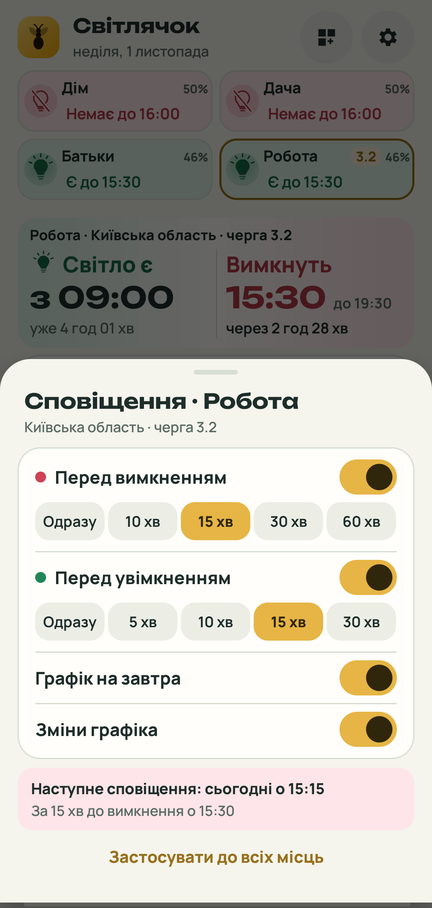
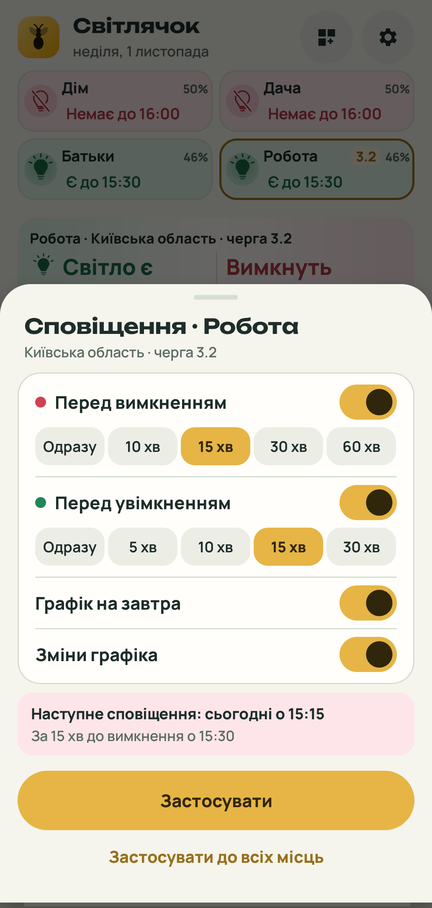
Describe 1.9.0-rc.2 changes: the clock alone on the card, the framed run, version link, Apply and new places with every notification; refresh screenshots

Changed region(s): [[0.0, 0.2467, 1.0, 0.9251], [0.4514, 0.6784, 0.5417, 0.7093]]

diff --git a/README.md b/README.md
@@ -63,14 +63,14 @@ Android-застосунок із графіком погодинних відк
 ### 📅 Графік вашої черги
 
 - Що зараз за графіком, відколи й скільки триває: «Світло є з 09:00, уже 4 год».
-- Наступна подія, її час і скільки до неї: «Вимкнуть 15:30 до 19:30, через 2 год 29 хв».
-- Сьогодні й завтра: 24 годинні клітинки двома рядами й підсумок очікуваного світла. Половина клітинки — 30 хвилин. Минулі години темніші, поточна виділена жовтою рамкою.
+- Наступна подія, її час і скільки до неї: «Вимкнуть 15:30, через 2 год 29 хв».
+- Сьогодні й завтра: 24 годинні клітинки двома рядами й підсумок очікуваного світла. Половина клітинки — 30 хвилин. Минулі години трохи приглушені, поточна виділена жовтою рамкою.
 - Місто Київ і 16 областей — [список](#області).
 
 ### 🔔 Сповіщення
 
-- Одразу після встановлення увімкнено два: за 15 хвилин до вимкнення і за 15 хвилин до
-  увімкнення світла.
+- Для кожного нового місця одразу ввімкнено всі: за 15 хвилин до вимкнення і за 15 хвилин до
+  увімкнення світла, графік на завтра й зміни графіка. Налаштування вже доданих місць не змінюються.
 - Для кожного місця — свої: кнопка «Сповіщення» під графіком відкриває налаштування вибраного місця і показує, коли прийде наступне. Їх можна застосувати до всіх місць.
 - Що станеться, а нижче — коли: «🔴 Вимкнуть світло» / «о 18:30». Коли місць
   кілька, другий рядок починається з назви місця: «Дім · о 18:30».
@@ -83,7 +83,6 @@ Android-застосунок із графіком погодинних відк
 - До 4 місць з різними областями чи чергами: дім, дача, батьки, робота. Одну чергу тієї самої області можна додати лише раз.
 - Кожне місце — компактна плитка зі станом і відсотком очікуваного світла сьогодні; натисніть, щоб побачити графік.
 - Під час додавання місця після вибору черги одразу видно її графік на сьогодні й завтра.
-- Нове місце отримує ті самі сповіщення, що й вибране; їх можна змінити дзвіночком.
 
 ### 📤 Поділитися
 
@@ -122,8 +121,8 @@ Android-застосунок із графіком погодинних відк
 - Про нову версію повідомляє картка на головному екрані: «Оновити», «Що нового» і
   «Пропустити цю версію» — тоді картка з'явиться лише для наступної. Окремих сповіщень про
   оновлення немає.
-- Внизу головного екрана видно версію застосунку. Якщо є новіша, навіть пропущена, рядок «є нова …,
-  оновити ›» повертає картку оновлення.
+- Внизу головного екрана видно версію застосунку; натискання відкриває список змін на GitHub. Якщо є
+  новіша, навіть пропущена, рядок «є нова …, оновити ›» повертає картку оновлення.
 - «Оновити» завантажує нову версію в застосунок і відразу відкриває встановлення Android —
   без браузера й пошуку файлу.
 
@@ -140,14 +139,14 @@ Android-застосунок із графіком погодинних відк
 - **Кольори**: зелений — світло є, червоний — світла немає, бурштиновий — можливе вимкнення,
   сірий — графіка ще немає. Лампочка дублює стан формою: з променями, перекреслена, наполовину
   залита, контур — тож його видно й без розрізнення кольорів.
-- **Картка стану** має дві половини, як великий віджет: зліва що зараз, відколи й скільки триває; справа наступна подія, її час і скільки до неї лишилось. Кінець наступного інтервалу видно завжди: біля часу або, на вузькому екрані, під відліком. Перед зміною права половина заливається кольором події.
+- **Картка стану** має дві половини, як великий віджет: зліва що зараз, відколи й скільки триває; справа наступна подія, її час і скільки до неї лишилось. Коли закінчиться наступний інтервал, видно на годинних клітинках нижче. Перед зміною права половина заливається кольором події.
 - **Початок стану** шукається в збережених графіках попередніх днів. За відсутності попередньої історії відлік починається від першого відомого часу, наприклад «з 00:00».
 - **Вибране місце** позначене контуром і номером черги на плитці. У картці стану вгорі його назва, область і черга: «Дім · Київська область · черга 3.1».
 - **Скора зміна** видна на плитці будь-якого місця: час стає на заливку кольору події за стільки хвилин, скільки вибрано у сповіщеннях місця, інакше за 15 хвилин.
 - Картка стану й плитки місць підлаштовуються під доступну ширину. Збільшений системний шрифт сам по собі не перемикає їх в один стовпець: другорядні підписи підлаштовуються, довгі назви переносяться повністю. Вертикальний вигляд потрібен лише коли для двох колонок справді замало місця.
 - **Сьогодні й завтра**: дві компактні секції, у кожній скільки годин світла очікується за графіком: «16 год світла · 67 %». Поки графіка на завтра немає, про це написано в одному рядку.
 - **Годинні клітинки**: два ряди по 12, від 00 до 23. Ліва половина — перші 30 хвилин години, права — другі; кольори зберігають усі короткі вимкнення. Жовтий контур позначає поточну годину. Можливе вимкнення має штрихування, невідомі години — сірі.
-- **Підказка графіка**: дотик до половини клітинки показує початок, кінець і тривалість її відрізка. Той самий відрізок, дотик поруч або кілька секунд прибирають її.
+- **Підказка графіка**: дотик до половини клітинки показує початок, кінець і тривалість її відрізка. Відрізок обведено рамкою, у кожному з рядів, які він займає, а решту клітинок приглушено. Той самий відрізок, дотик поруч або кілька секунд прибирають підказку.
 - **Світла немає, хоча за графіком є?** Рядок унизу пояснює можливі причини: екстрене вимкнення, аварію, ремонт, затримку даних або проблему вводу чи автомата. Кнопка веде до джерела для області вибраного місця; для міста Києва — до «Без світла».
 
 ## Докладніше
@@ -162,12 +161,13 @@ Android-застосунок із графіком погодинних відк
   Коли місць два й більше, другий рядок починається з назви місця. Залишок часу відлічує Android;
   повний текст із довгою назвою доступний після розгортання.
 - Усе це налаштовується окремо для кожного місця — кнопкою «Сповіщення» під графіком або дзвіночком
-  у рядку місця в налаштуваннях. Там же видно час наступного сповіщення і є «Застосувати до всіх місць».
+  у рядку місця в налаштуваннях. Перемикачі зберігаються одразу, кнопка «Застосувати» закриває вікно.
+  Там же видно час наступного сповіщення і є «Застосувати до всіх місць».
 - Нагадування й повідомлення про графік показуються окремо: оновлення графіка не прибирає активний
   відлік. Повідомлення кількох місць зібрані в групу. Нагадування заздалегідь зникає в момент зміни;
   перенесення або скасування події прибирає старе нагадування, уточнення інтервалу оновлює його без
   повторного звуку. Нагадування у момент зміни лишається до кінця відомого вимкнення або на годину після увімкнення.
-- Додатково, якщо потрібно, вмикаються:
+- Окремо вмикаються й вимикаються:
   - **Графік на завтра** — щойно обленерго його опублікує, з підсумком годин світла, і після кожного уточнення до опівночі;
   - **Зміни графіка** — якщо обленерго змінило години на сьогодні;
   - **Тиша вночі** — з 23:00 до 07:00 сповіщення приходять без звуку (одна для всіх місць).

diff --git a/CHANGELOG.md b/CHANGELOG.md
@@ -5,20 +5,22 @@
 ### ✨ Додано
 
 - **У формі місця видно графік вибраної черги на сьогодні й завтра.** Після вибору черги одразу показано ту саму сітку, що й на головному екрані.
-- **Внизу головного екрана видно версію застосунку.** Якщо вийшла новіша, навіть уже пропущена, натискання на рядок «є нова …, оновити ›» повертає картку оновлення.
+- **Внизу головного екрана видно версію застосунку.** Натискання відкриває список змін на GitHub. Якщо вийшла новіша версія, навіть уже пропущена, рядок «є нова …, оновити ›» повертає картку оновлення.
 
 ### 🔧 Змінено
 
 - **Сповіщення «Графік на завтра» приходить і про уточнення завтрашнього графіка.** Окремий перемикач «Зміни графіка» тепер стосується лише змін на сьогодні.
 - **Картинка для поширення вдвічі менша.** Черга й область в одному рядку, години вимкнень в одному ряду, без легенди. До повідомлення більше не додається окремий текст: адреса застосунку є на картинці.
 - **Рядок «Графік оновлено · перевірено» розташовано одразу під графіком.** У шапці лишилася тільки дата.
-- **Нове місце отримує ті самі сповіщення, що й вибране.** Їх можна змінити дзвіночком.
+- **У нового місця одразу ввімкнені всі сповіщення.** Налаштування вже доданих місць не змінюються. У вікні сповіщень з'явилася кнопка «Застосувати»: перемикачі, як і раніше, зберігаються одразу, а кнопка закриває вікно.
+- **На головній картці показано лише час наступної події.** Коли закінчиться наступний інтервал, видно на годинних клітинках нижче. Відстані між рядками картки однакові.
+- **Відрізок, вибраний дотиком, обведено однією рамкою.** Поки видно підказку, решту клітинок приглушено, тому точний початок і кінець видно, навіть коли відрізок займає обидва ряди. Минулі години приглушено менше, ніж раніше.
 
 ### 🐛 Виправлено
 
-- **Чернетка графіка на завтра більше не показується як графік.** Для Київської області обленерго спершу публікує «завтра» лише з нічними годинами, а решту доби позначає як «світло є». Застосунок показував 24 години світла й надсилав про це сповіщення. Тепер такий день вважається ще не опублікованим, доки не з'явиться повний графік. Якщо джерело три години нічого не змінює, показується те, що опубліковано.
-- **Кінець наступного вікна видно на головній картці завжди.** Раніше «до 19:00» зникало, коли не вміщувалося біля великого годинника.
+- **Чернетка графіка на завтра для Київської області більше не показується як графік.** Обленерго спершу публікує «завтра» лише з нічними годинами, а решту доби позначає як «світло є». Застосунок показував 24 години світла й надсилав про це сповіщення. Тепер такий день вважається ще не опублікованим, доки не з'явиться повний графік. Якщо джерело три години нічого не змінює, показується те, що опубліковано.
 - **Сповіщення про зміну графіка не губляться під час редагування місць.** Якщо графік області оновився саме тоді, інші місця цієї області отримують сповіщення.
+- **Час оновлення графіка не буває пізнішим, ніж застосунок отримав файл.** Джерело для Хмельницької області іноді вказує час із майбутнього, наприклад 23:32 замість 00:02.
 - **У статистиці числа розташовано всередині своїх стовпчиків.** Години зі світлом завжди внизу зеленого, без світла — вгорі червоного; нуль не показується.
 
 ## 1.8.0 — 2026-11-06
